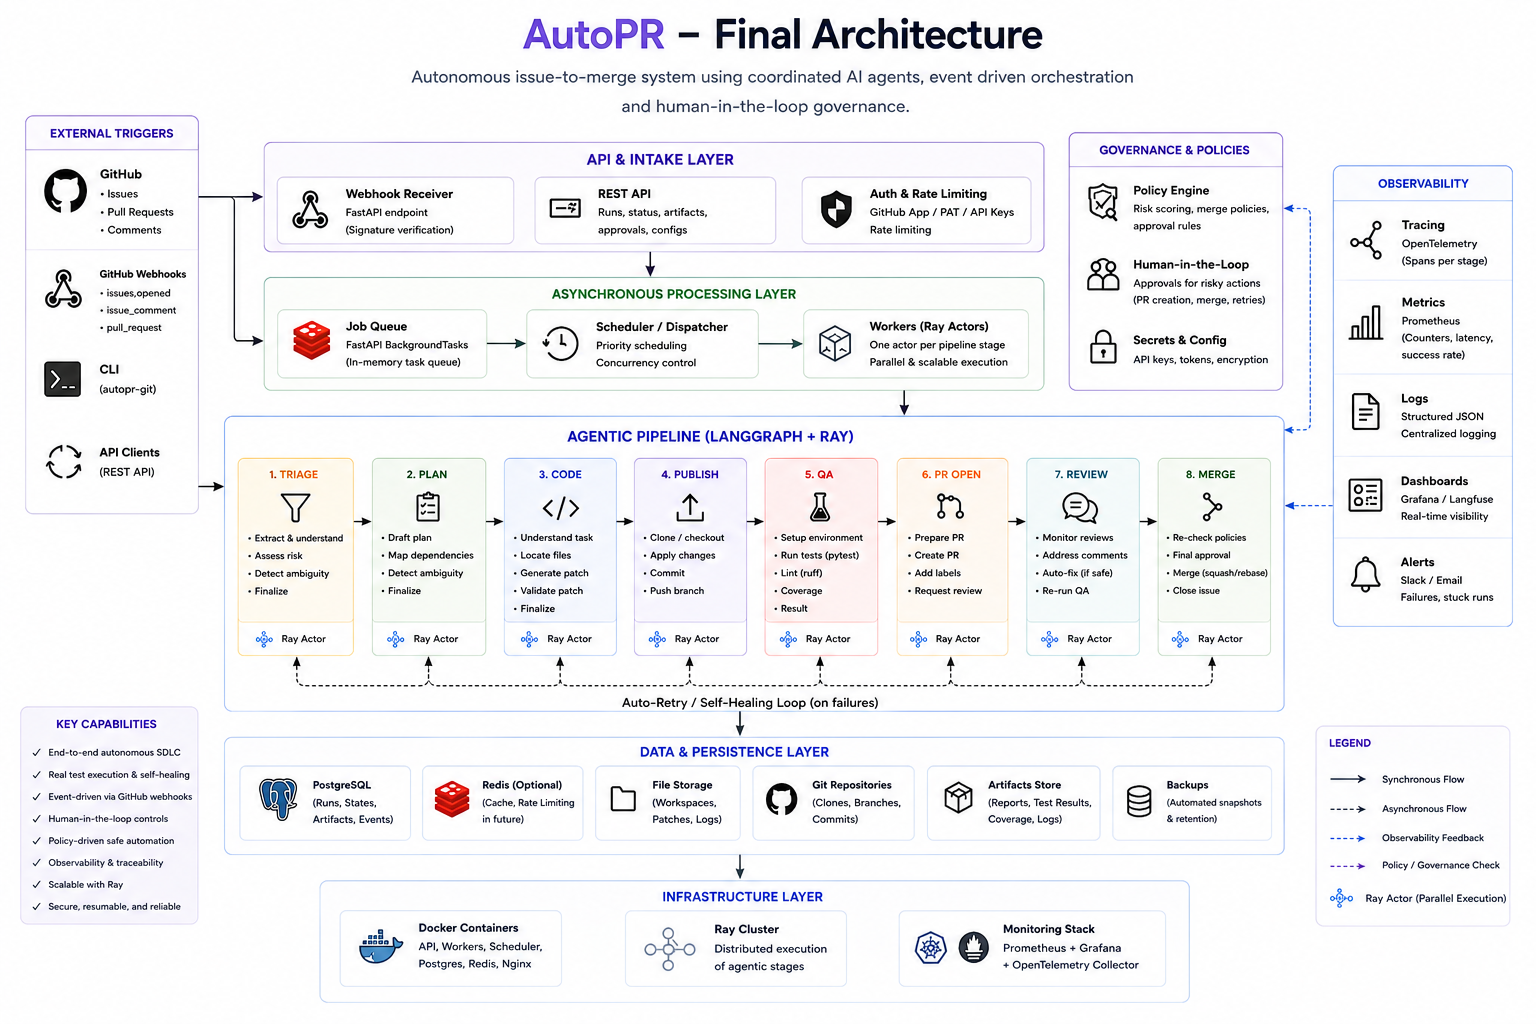
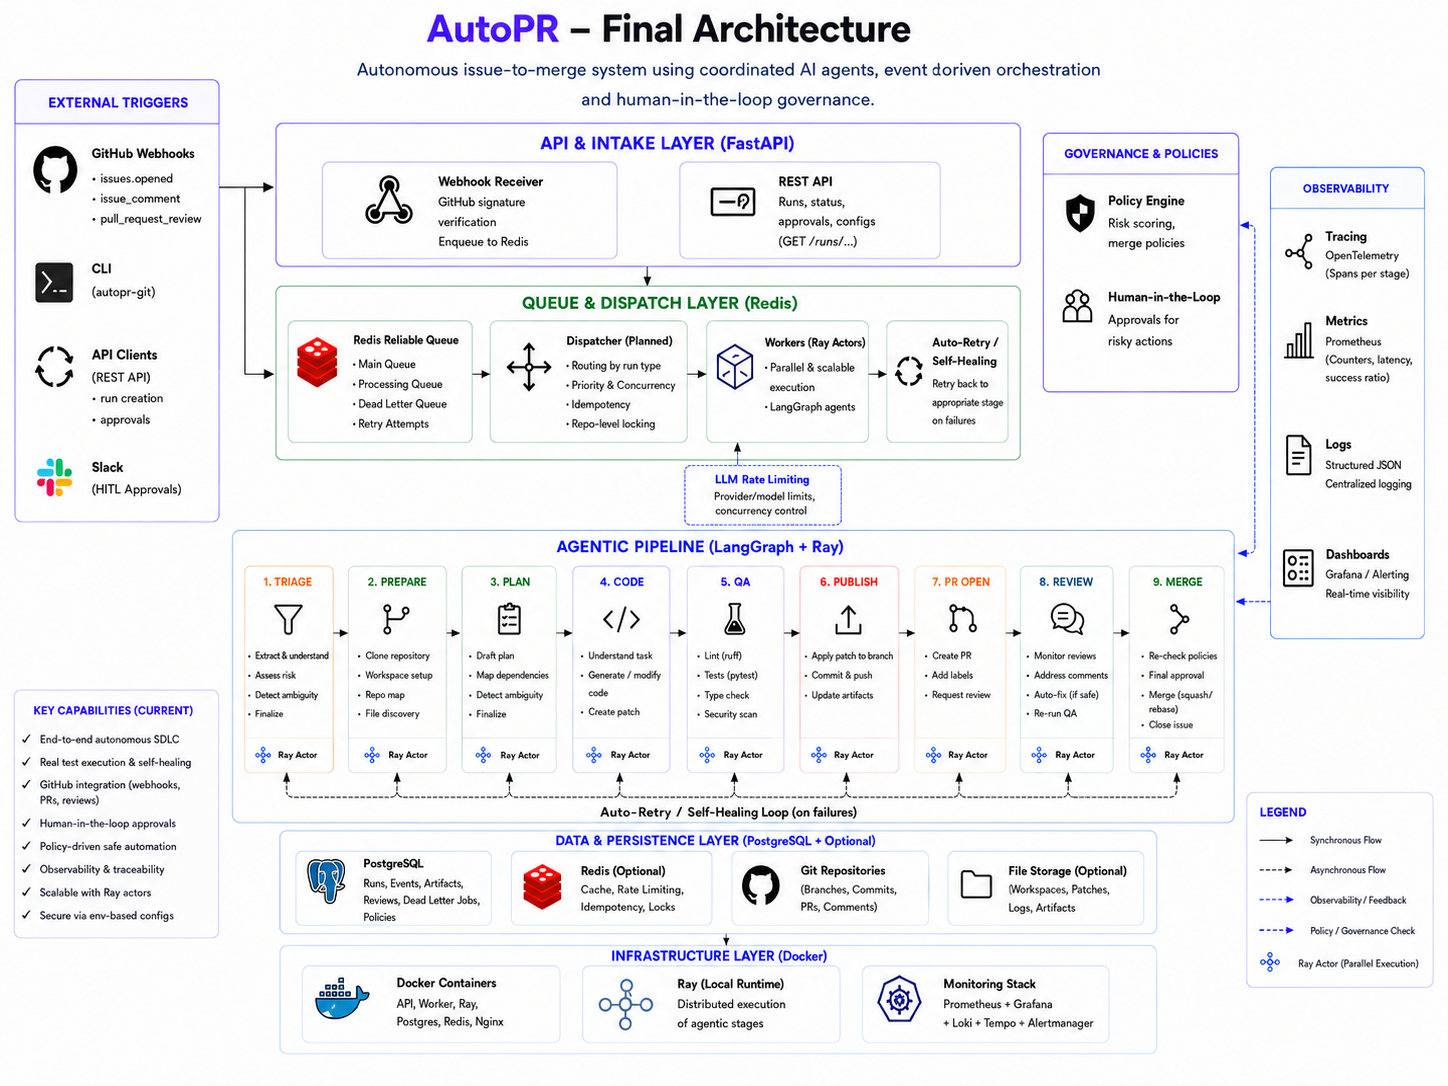
updated readme and architecture diagram

diff --git a/README.md b/README.md
@@ -1,47 +1,341 @@
-# AutoPR
+# AutoPR - AI-Powered GitHub Issue-to-PR Automation
 
-An autonomous **issue-to-merge** system. A GitHub issue comes in; a pipeline of coordinated agents triages it, plans the work, writes the code, runs quality gates, opens a pull request, reviews it, and merges it — with policy gates that pull a human in when the risk is too high.
+AutoPR turns GitHub webhook events into queued workflow runs. The system triages issues, plans code changes, generates patches, runs QA gates, publishes branches, opens pull requests, reviews merge readiness, and merges approved pull requests when remote GitHub actions are enabled.
 
-```bash
-make run-api      # FastAPI intake on :8000
-make run-worker   # queue worker that drains and dispatches runs
-```
+The implementation uses FastAPI, Redis, Ray, LangGraph, SQLAlchemy/PostgreSQL, OpenTelemetry, Prometheus, Tempo, Loki, and Grafana. The codebase is organized around production backend concerns: event intake, queue isolation, durable run state, agent orchestration, QA execution, policy gates, observability, and human review.
 
 ---
 
 ## Architecture
 
-![AutoPR architecture](docs/architecture.png)
+![AutoPR Architecture](docs/architecture.png)
 
-A run flows top-down through five layers:
-
-```
-GitHub webhook  /  manual API call  /  CLI
-        │
-        ▼
-API & Intake          ← FastAPI: verify, filter, enqueue
-        │
-        ▼
-Async Job Queue       ← Redis list + processing list + dead-letter queue
-        │
-        ▼
-Orchestrator          ← Coordinator advances a validated StateMachine
-        │
-        ├── per stage: PipelineStep → Ray actor → Agent (LangGraph)
-        │
-        ▼
-Data & Persistence    ← SQLite: runs, run events, stage artifacts
-```
-
-**Layer resolution:** the API only *parses and enqueues* — it never runs a pipeline inline. The worker reserves a job from Redis, hands it to a `Coordinator`, and the coordinator walks the registered `PipelineStep`s for that run type. Each step dispatches its agent as a Ray remote actor, collects a typed `StageResult`, persists it, and asks the policy layer whether the run may transition.
+The detailed architecture note lives in `docs/architecture.md`.
 
 ---
 
-## Pipeline
+## What AutoPR Does
 
-A run has one of two types, each a fixed sequence of stages:
+AutoPR runs two workflow types:
 
-| Run type | Stages |
-|----------|--------|
-| `ISSUE_TO_PR` | `triage → plan → code → qa → publish → pr_open` |
-| `PR_TO_MERGE` | `review → merge` |
+| Run type | Trigger | Ordered stages |
+| -------- | ------- | -------------- |
+| `ISSUE_TO_PR` | `issues` webhooks for opened and reopened issues | `triage -> prepare -> plan -> code -> qa -> publish -> pr_open -> review -> merge` |
+| `PR_TO_MERGE` | approved `pull_request_review` webhooks with `AUTOPR_WEBHOOK_MERGE_ON_APPROVAL=true` | `review -> merge` |
+
+The pipeline:
+
+1. Accepts GitHub webhook events through FastAPI.
+2. Verifies the webhook signature when `GITHUB_WEBHOOK_SECRET` is set.
+3. Filters unsupported events and disabled workflow triggers.
+4. Enqueues accepted work in Redis.
+5. Reserves queued work in the worker process.
+6. Dispatches each job through the coordinator and registered pipeline steps.
+7. Runs focused LangGraph agents through Ray workers.
+8. Runs lint, test, coverage, and security QA jobs.
+9. Stores run snapshots, events, stage artifacts, review requests, and dead-letter records in PostgreSQL.
+10. Emits logs, traces, and metrics through the observability stack.
+11. Creates resumable review gates for stages that return `needs_review`.
+
+---
+
+## Core Components
+
+### 1. API Service
+
+The FastAPI service receives GitHub webhooks, creates queued work, exposes run lookup, exposes Prometheus metrics, and applies internal review decisions.
+
+Routes:
+
+```text
+POST /webhooks/github
+GET  /runs/{run_id}
+GET  /internal/review/decision
+GET  /metrics
+```
+
+### 2. Redis Queue
+
+`infra/redis/webhook_queue.py` implements the Redis-backed queue. It separates pending, processing, and dead-letter jobs with these configured keys:
+
+```text
+autopr:webhook:queue
+autopr:webhook:processing
+autopr:webhook:dlq
+```
+
+The queue stores webhook jobs and human-review resume jobs. Failed jobs re-enter the pending queue until `AUTOPR_WEBHOOK_MAX_ATTEMPTS` is reached, then move to the dead-letter queue.
+
+### 3. Worker Dispatcher
+
+`apps/worker/main.py` runs the dispatcher loop. It reserves messages from Redis, dispatches webhook or resume jobs, acknowledges successful work, requeues failed work, records dead-letter rows, and sends dead-letter notifications.
+
+This process runs separately from the API service, so webhook intake stays isolated from LLM calls, repository operations, and QA execution.
+
+### 4. Coordinator
+
+`core/orchestrator/coordinator.py` executes the workflow. It owns the run model, validates state transitions, executes registered pipeline steps, persists every stage result, handles QA retry loops, creates review requests, and records final run state.
+
+The registered steps live in `core/orchestrator/steps/registry.py`.
+
+### 5. Agent Runtime
+
+AutoPR uses focused LangGraph agents instead of one monolithic prompt.
+
+Implemented agents:
+
+| Agent | Package | Responsibility |
+| ----- | ------- | -------------- |
+| `TriageAgent` | `core/agents/triage` | Extracts the task from the GitHub issue, assesses risk, detects ambiguity, and emits a triage result. |
+| `PlanAgent` | `core/agents/plan` | Drafts implementation steps, maps dependencies, checks ambiguity, and emits a plan output. |
+| `CodeAgent` | `core/agents/code` | Understands each plan step, locates relevant files, generates code changes, validates the output, and emits a code output. |
+| `QAAgent` | `core/agents/qa` | Evaluates code output against lint, test, coverage, and security tool results, then returns structured QA checks. |
+| `PublishAgent` | `core/agents/publish` | Resolves a workspace, applies generated files, commits changes, and pushes the implementation branch. |
+| `PRAgent` | `core/agents/pr` | Builds the pull request payload, opens the PR, and records the PR URL and number. |
+| `ReviewAgent` | `core/agents/review` | Evaluates PR merge readiness, runs an LLM merge-risk review, and returns required actions. |
+| `MergeAgent` | `core/agents/merge` | Prepares merge metadata, merges the approved PR, and returns the merge result. |
+
+Ray workers instantiate these agents in `infra/ray/actors.py`.
+
+### 6. Repository and QA Execution
+
+Repository operations live under `infra/repo_worker` and the publish agent. QA execution lives under `infra/qa` and `infra/ray/jobs/qa.py`.
+
+The QA layer runs:
+
+| Check | Module |
+| ----- | ------ |
+| Lint | `infra/qa/lint_runner.py` |
+| Tests | `infra/qa/test_runner.py` |
+| Coverage | `infra/qa/coverage_runner.py` |
+| Security | `infra/qa/security_runner.py` |
+
+### 7. PostgreSQL Run Store
+
+PostgreSQL is the durable run store. `infra/storage/schema.py` defines these tables:
+
+| Table | Stored data |
+| ----- | ----------- |
+| `runs` | Latest run snapshot, run type, repository, issue number, pull request number, and serialized run payload. |
+| `run_events` | Append-only timeline events for state transitions, stage results, review gates, and resume decisions. |
+| `artifacts` | Named stage artifacts keyed by run id. |
+| `review_requests` | Pending, decided, and applied human-review requests. |
+| `dead_letter_jobs` | Failed queue messages that exhausted retry attempts. |
+
+`configs/settings.py` provides PostgreSQL connection defaults, and `docker/docker-compose.yml` starts Postgres 16 plus pgAdmin.
+
+### 8. LLM Gateway
+
+`infra/llm` provides provider selection, model configuration, rate limits, pricing metadata, callbacks, and gateway execution.
+
+Configured providers:
+
+| Provider | Models in `configs/llm_models.yaml` |
+| -------- | ----------------------------------- |
+| Ollama | `qwen3-coder`, `deepseek-r1` |
+| Anthropic | `sonnet`, `opus` |
+| Google | `pro`, `flash` |
+| OpenAI | `gpt-4.1`, `gpt-4.1-mini` |
+
+`AUTOPR_LLM_PROVIDER` and `AUTOPR_LLM_MODEL_NAME` select the default provider and model. The gateway enforces requests-per-minute and concurrency caps from `configs/llm_models.yaml`.
+
+### 9. Policy and Human Review
+
+`core/policies/engine.py` evaluates deterministic merge policy checks. It blocks high-risk automerge, sensitive path changes, and non-green QA results according to `configs/policies.yaml`.
+
+The coordinator creates human-review requests for publish gates and LLM soft gates. `GET /internal/review/decision` records approved or disapproved decisions and enqueues approved resume jobs.
+
+### 10. Observability
+
+The local Docker stack starts the full observability path:
+
+| Tool | Role |
+| ---- | ---- |
+| OpenTelemetry Collector | Receives app traces, metrics, and logs. |
+| Prometheus | Stores metrics and scrapes collector output. |
+| Tempo | Stores traces. |
+| Loki | Stores logs. |
+| Grafana | Displays dashboards and data sources. |
+
+Provisioned dashboards live in `docker/grafana/dashboards`.
+
+---
+
+## Remote Action Control
+
+`AUTOPR_EXECUTE_REMOTE_ACTIONS` controls write operations against GitHub and remote repositories.
+
+| Value | Behavior |
+| ----- | -------- |
+| unset or false | Publish, PR creation, and merge agents prepare outputs and skip remote writes. |
+| true | Publish, PR creation, and merge agents execute remote GitHub or Git operations. |
+
+This flag keeps local development deterministic and prevents accidental repository writes.
+
+---
+
+## Tech Stack
+
+| Area | Technology |
+| ---- | ---------- |
+| API | FastAPI |
+| Queue | Redis |
+| Worker runtime | Ray |
+| Agent orchestration | LangGraph |
+| LLM integration | LangChain-compatible providers |
+| Persistence | SQLAlchemy + PostgreSQL |
+| QA execution | subprocess-backed lint, tests, coverage, and security runners |
+| Observability | OpenTelemetry, Prometheus, Tempo, Loki, Grafana |
+| Local infrastructure | Docker Compose |
+
+---
+
+## Repository Structure
+
+```text
+autopr/
+├── apps/
+│   ├── api/              FastAPI app and routes
+│   ├── cli/              GitHub operations CLI
+│   └── worker/           Redis worker dispatcher
+├── configs/              Settings, LLM models, and policy configuration
+├── core/
+│   ├── agents/           LangGraph agents
+│   ├── contracts/        Pydantic contracts and enums
+│   ├── orchestrator/     Coordinator, state machine, transitions, and steps
+│   └── policies/         Merge policy checks and review comment formatting
+├── docker/               Compose stack, service Dockerfiles, observability config
+├── docs/                 Architecture documentation and diagram
+├── infra/
+│   ├── github/           Webhook handling and GitHub API client
+│   ├── llm/              LLM registry, gateway, rate limits, callbacks
+│   ├── qa/               Lint, test, coverage, security, and sandbox runners
+│   ├── ray/              Ray actors and runtime hooks
+│   ├── redis/            Webhook queue implementation
+│   ├── repo_worker/      Repository workspace and Git helpers
+│   ├── slack/            Review and dead-letter notifications
+│   └── storage/          SQLAlchemy schema and persistence helpers
+├── observability/        Logging, metrics, and tracing helpers
+├── scripts/              Local utility scripts
+└── tests/                Unit, integration, and e2e tests
+```
+
+---
+
+## Getting Started
+
+### 1. Create Environment File
+
+```bash
+cp .env.example .env
+```
+
+Set the provider keys for the LLM backend you use:
+
+```env
+OPENAI_API_KEY=
+ANTHROPIC_API_KEY=
+GOOGLE_API_KEY=
+GITHUB_WEBHOOK_SECRET=
+GITHUB_TOKEN=
+```
+
+The Docker stack supplies Redis and PostgreSQL connection URLs for the API and worker services.
+
+### 2. Start the Stack
+
+```bash
+docker compose -f docker/docker-compose.yml up --build
+```
+
+Services:
+
+```text
+API Docs:    http://localhost:8000/docs
+Metrics:     http://localhost:8000/metrics
+Grafana:     http://localhost:3000
+Prometheus:  http://localhost:9090
+pgAdmin:     http://localhost:5050
+Ray:         http://localhost:8265
+```
+
+### 3. Run Locally Without Docker
+
+Start Redis and PostgreSQL first, then run the API and worker:
+
+```bash
+python -m venv .venv
+source .venv/bin/activate
+pip install -e ".[dev,llm]"
+
+make run-api
+make run-worker
+```
+
+---
+
+## Running Tests
+
+```bash
+pytest
+```
+
+Run linting and formatting:
+
+```bash
+ruff check .
+ruff format .
+```
+
+---
+
+## Configuration
+
+| File | Purpose |
+| ---- | ------- |
+| `configs/settings.py` | Database settings and app defaults. |
+| `configs/llm_models.yaml` | Provider models, pricing metadata, RPM caps, and concurrency caps. |
+| `configs/policies.yaml` | Merge policy gates and sensitive path patterns. |
+| `.env.example` | Local environment template. |
+| `docker/docker-compose.yml` | Local service topology. |
+
+---
+
+## Highlights
+
+This project demonstrates:
+
+* Event-driven GitHub webhook intake.
+* Redis-backed asynchronous processing.
+* Multi-agent LLM orchestration.
+* LangGraph-based stage graphs.
+* Ray-backed worker isolation.
+* PostgreSQL-backed run persistence.
+* Human-review gates with resumable runs.
+* Deterministic merge policy checks.
+* Model-level LLM rate limiting.
+* OpenTelemetry-based traces, logs, and metrics.
+* Grafana dashboards for queue, stage, pipeline, trace, and LLM inspection.
+
+---
+
+## Planned Work
+
+* Expand retry policies beyond QA retries and parser retries.
+* Add a dedicated dead-letter queue dashboard.
+* Add evaluation metrics for generated code quality.
+* Add more webhook-to-run e2e coverage.
+
+---
+
+## Non-Goals
+
+The current scope excludes:
+
+* Scheduler-based execution.
+* JWT authentication.
+* Cloud secret manager integration.
+* Kubernetes deployment.
+
+---
+